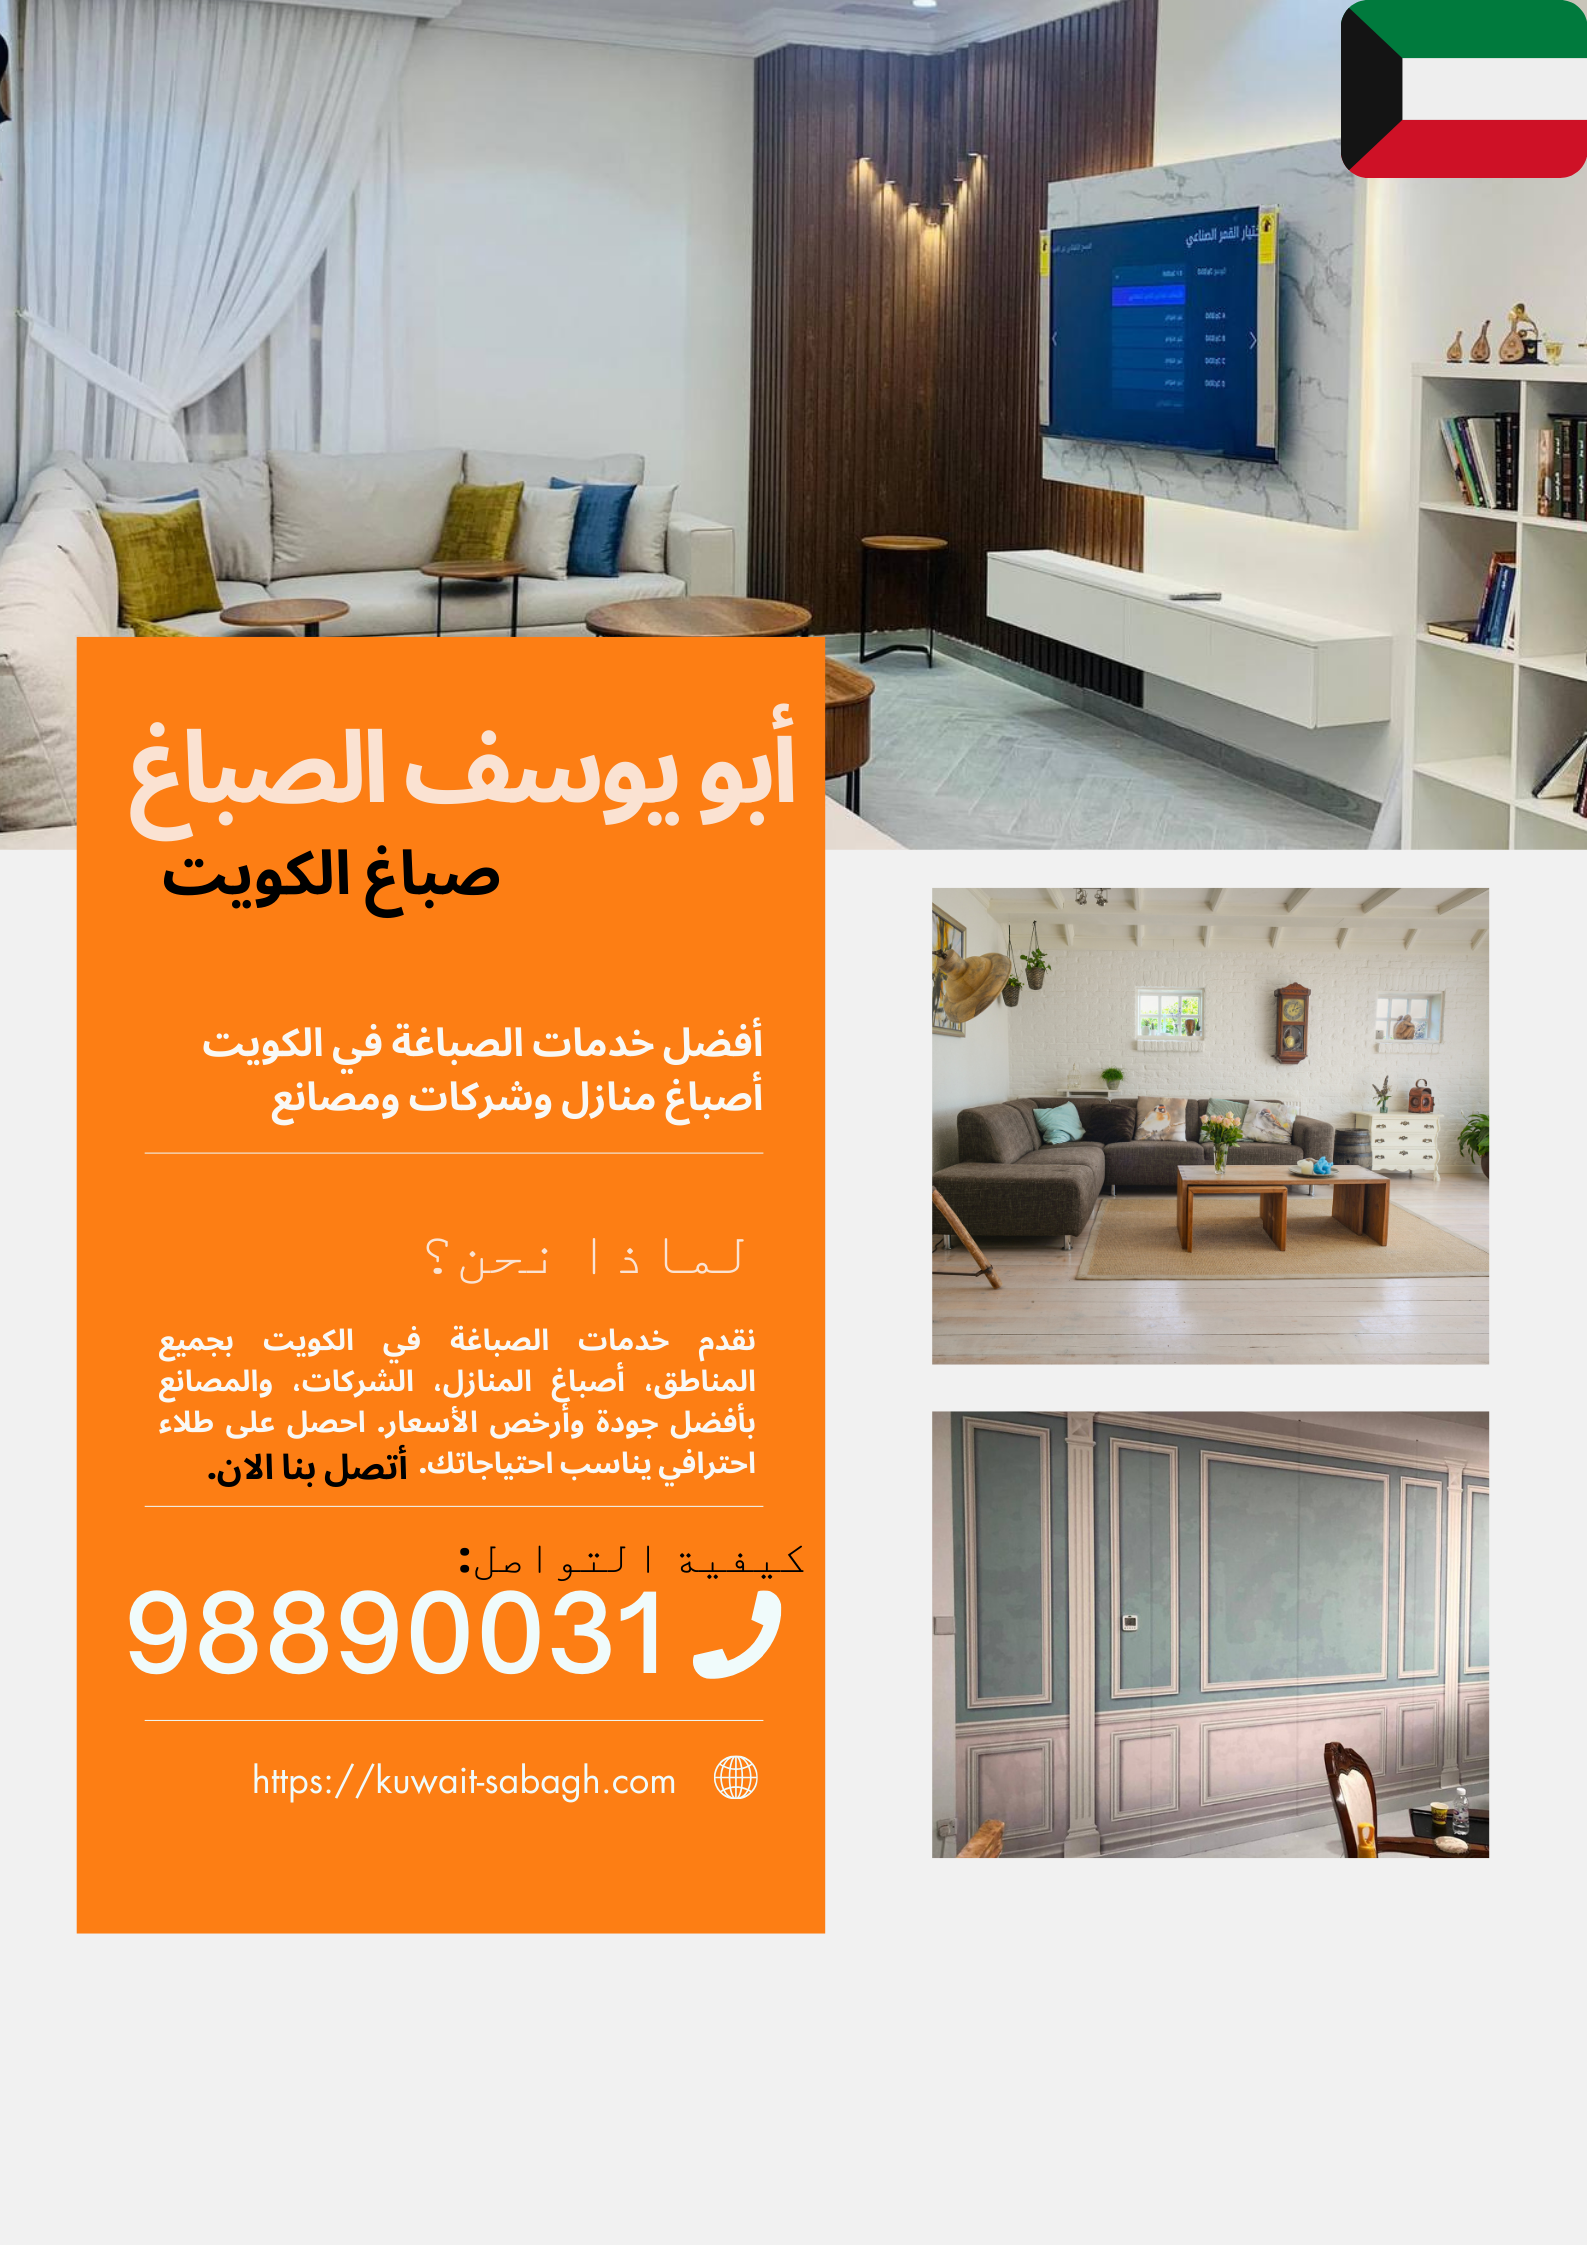
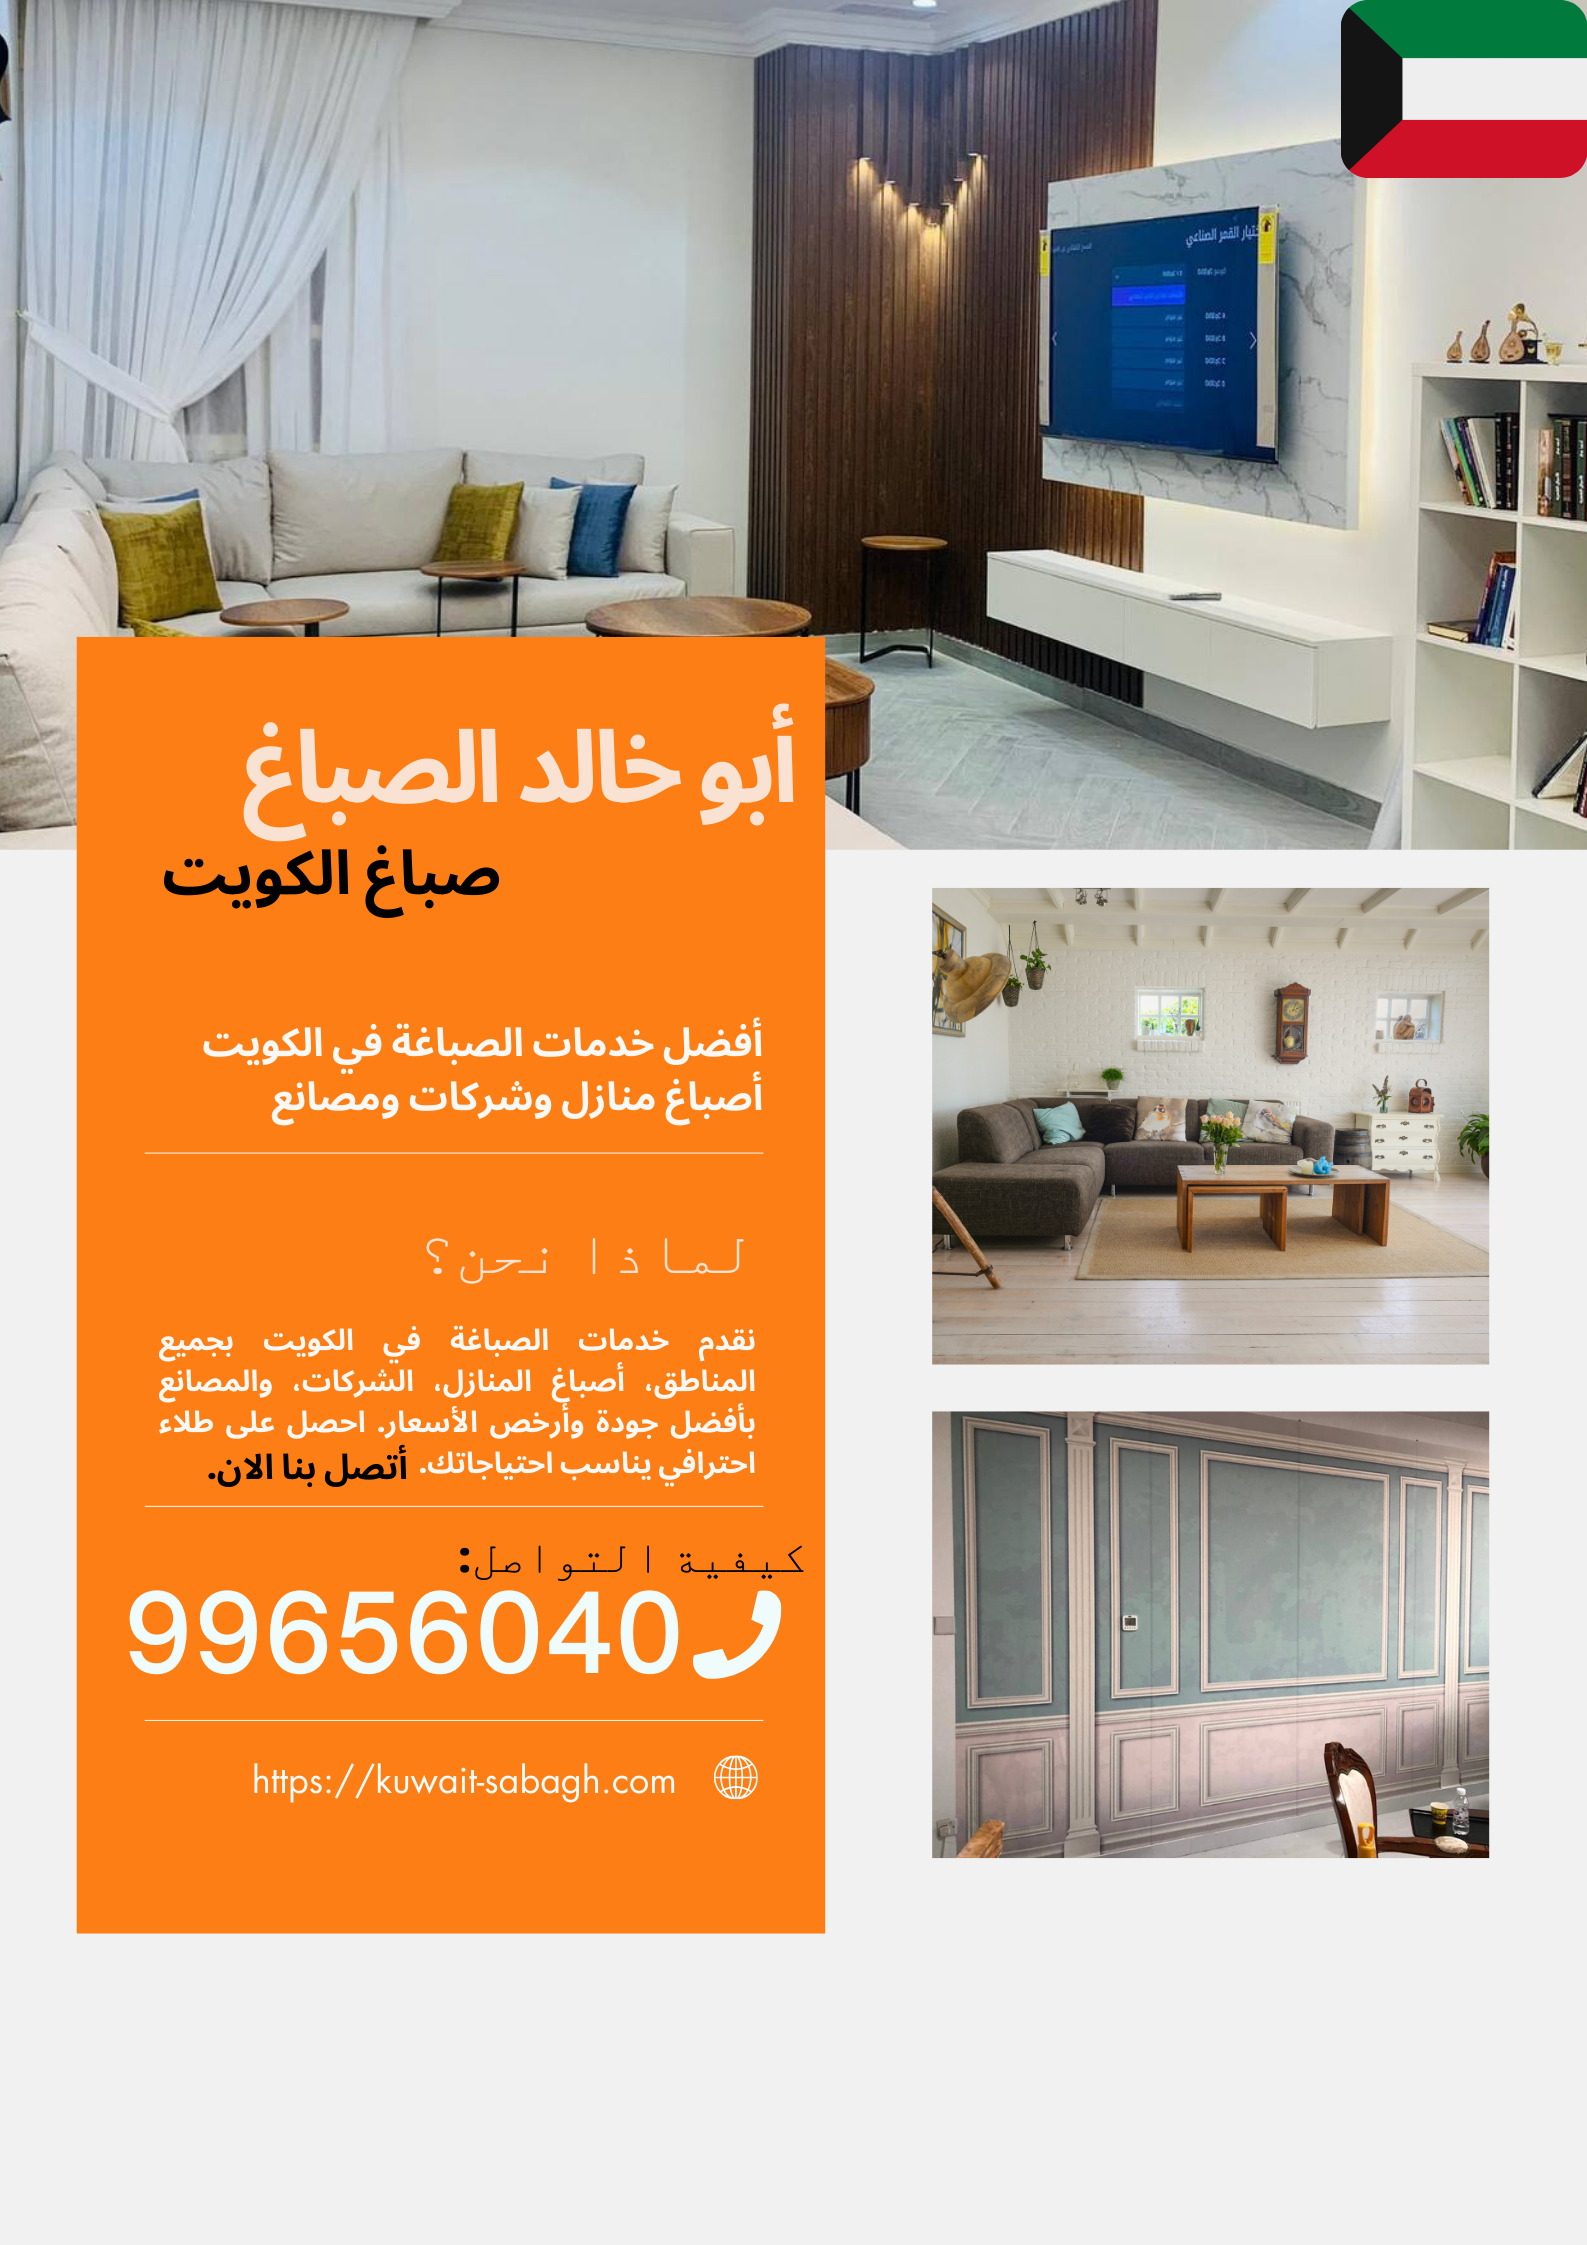
modify site owner

Changed region(s): [[0.0618, 0.3118, 0.4323, 0.3742], [0.1235, 0.686, 0.4323, 0.7483]]

diff --git a/index.html b/index.html
@@ -6,8 +6,7 @@
   <meta name="viewport" content="width=device-width, initial-scale=1.0">
   <meta http-equiv="X-UA-Compatible" content="IE=edge">
 
-  <title>صباغ الكويت خصم 50% - صبغ بدون ريحه جوتن - اتصل الآن 98890031 - صباغ شاطر - صباغ الكويت - رقم صباغ - صباغ ورق
-    جدران - أشطر صباغ بالكويت - أحسن صباغ بالكويت - صباغ ماهر - ابو يوسف الصباغ</title>
+  <title>صباغ الكويت خصم 50% - صبغ بدون ريحه جوتن - اتصل الآن 99656040 - صباغ شاطر - صباغ الكويت - رقم صباغ - صباغ ورق جدران - أشطر صباغ بالكويت - أحسن صباغ بالكويت - صباغ ماهر - ابو خالد الصباغ</title>
 
   <meta name="description"
     content="نقدم خدمات الصباغة في الكويت بجميع المناطق، أصباغ المنازل، الشركات، والمصانع بأفضل جودة وأرخص الأسعار. احصل على طلاء احترافي يناسب احتياجاتك.">
@@ -94,7 +93,7 @@
                   "name": "كيف يمكنني التواصل معكم؟",
                   "acceptedAnswer": {
                       "@type": "Answer",
-                      "text": "يمكنكم الاتصال بنا عبر الهاتف على الرقم +96598890031."
+                      "text": "يمكنكم الاتصال بنا عبر الهاتف على الرقم +96599656040."
                   }
               },
               {
@@ -194,11 +193,11 @@
 
 <body>
   <!-- Floating Button -->
-  <a href="https://wa.me/+96598890031" class="floating-button" title="Chat with me on WhatsApp" target="_blank">
+  <a href="https://wa.me/+96599656040" class="floating-button" title="Chat with me on WhatsApp" target="_blank">
     <i class="fa-brands fa-whatsapp"></i>
   </a>
   <!-- Floating Button -->
-  <a href="tel:98890031" class="floating-button second" title="Call Us Now" target="_blank">
+  <a href="tel:99656040" class="floating-button second" title="Call Us Now" target="_blank">
     <i class="fa-solid fa-phone"></i>
   </a>
 
@@ -231,7 +230,7 @@
     </div>
     <div class="container py-2">
       <a class="navbar-brand fs-4 fw-bold text-uppercase" href="#home">
-        صباغ ابو يوسف
+        صباغ ابو خالد
       </a>
 
       <div class="d-flex align-items-center gap-2">
@@ -276,8 +275,8 @@
     <div class="content pt-5">
       <!-- Main Heading -->
       <h1 id="main" class="mt-5 display-4 text-center fw-bolder">
-        صباغ الكويت خصم 50% - صبغ بدون ريحه جوتن - اتصل الآن 98890031 - صباغ شاطر - صباغ الكويت - رقم صباغ - صباغ ورق
-        جدران - أشطر صباغ بالكويت - أحسن صباغ بالكويت - أفضل صباغ بالكويت - صباغ ماهر - صباغ ابو يوسف
+        صباغ الكويت خصم 50% - صبغ بدون ريحه جوتن - اتصل الآن 99656040 - صباغ شاطر - صباغ الكويت - رقم صباغ - صباغ ورق
+        جدران - أشطر صباغ بالكويت - أحسن صباغ بالكويت - أفضل صباغ بالكويت - صباغ ماهر - صباغ ابو خالد
       </h1>
 
       <!-- Dynamic Text with SEO Optimization -->
@@ -296,14 +295,14 @@
       <!-- Connection Buttons -->
       <div class="d-flex gap-2 justify-content-center">
         <!-- Phone Call Button -->
-        <a href="tel:98890031" class="btn btn-main d-flex align-items-center p-2 mt-2" title="اتصل بصباغ محترف"
+        <a href="tel:99656040" class="btn btn-main d-flex align-items-center p-2 mt-2" title="اتصل بصباغ محترف"
           aria-label="اتصل بصباغ محترف">
           اتصل الآن
           <i class="fa-solid fa-phone me-2" aria-hidden="true"></i>
         </a>
 
         <!-- WhatsApp Button -->
-        <a href="https://wa.me/+96598890031" class="btn btn-outline-main d-flex align-items-center p-2 mt-2"
+        <a href="https://wa.me/+96599656040" class="btn btn-outline-main d-flex align-items-center p-2 mt-2"
           title="تواصل عبر واتساب" aria-label="تواصل عبر واتساب">
           واتساب
           <i class="fa-brands fa-whatsapp me-2" aria-hidden="true"></i>
@@ -428,7 +427,7 @@
                 </tr>
                 <tr>
                   <td><strong>رقم الهاتف</strong></td>
-                  <td><a href="tel:98890031" class="text-main fw-bold">98890031</a></td>
+                  <td><a href="tel:99656040" class="text-main fw-bold">99656040</a></td>
                 </tr>
                 <tr>
                   <td><strong>البريد الإلكتروني</strong></td>
@@ -499,7 +498,7 @@
           </section>
 
           <section class="mb-4" id="portfolio">
-            <h2 class="text-main">أبو يوسف الصباغ - صباغ ورق جدران 98890031</h2>
+            <h2 class="text-main">أبو خالد الصباغ - صباغ ورق جدران 99656040</h2>
             <div class="row">
               <div class="col-md-4 text-center">
                 <img src="https://kuwait-sabagh.com/img/poster-kw-1.png" class="img-fluid rounded"
@@ -519,8 +518,8 @@
           <section class="text-center mt-4">
             <h2 class="text-secondary">تواصل معنا الآن!</h2>
             <p>اتصل بنا الآن لحجز موعد أو الاستفسار عن خدماتنا.</p>
-            <a href="tel:+96598890031" class="btn btn-success me-2"><i class="fa fa-phone"></i> اتصال الآن</a>
-            <a href="https://wa.me/+96598890031" class="btn btn-primary"><i class="fa-brands fa-whatsapp"></i> تواصل عبر
+            <a href="tel:+96599656040" class="btn btn-success me-2"><i class="fa fa-phone"></i> اتصال الآن</a>
+            <a href="https://wa.me/+96599656040" class="btn btn-primary"><i class="fa-brands fa-whatsapp"></i> تواصل عبر
               واتساب</a>
           </section>
         </article>
@@ -597,8 +596,8 @@
           <section class="text-center mt-4">
             <h2 class="text-secondary">اتصل بنا الآن!</h2>
             <p>للاستفسار عن خدماتنا أو لحجز موعد، لا تتردد في التواصل معنا.</p>
-            <a href="tel:+96598890031" class="btn btn-success me-2"><i class="fa fa-phone"></i> اتصال الآن</a>
-            <a href="https://wa.me/+96598890031" class="btn btn-primary"><i class="fa-brands fa-whatsapp"></i> تواصل عبر
+            <a href="tel:+96599656040" class="btn btn-success me-2"><i class="fa fa-phone"></i> اتصال الآن</a>
+            <a href="https://wa.me/+96599656040" class="btn btn-primary"><i class="fa-brands fa-whatsapp"></i> تواصل عبر
               واتساب</a>
           </section>
         </article>
@@ -628,8 +627,8 @@
           <section class="text-center mt-4">
             <h2 class="text-secondary">اتصل بنا الآن!</h2>
             <p>للاستفسار عن خدماتنا أو لحجز موعد، لا تتردد في التواصل معنا.</p>
-            <a href="tel:+96598890031" class="btn btn-success me-2"><i class="fa fa-phone"></i> اتصال الآن</a>
-            <a href="https://wa.me/+96598890031" class="btn btn-primary"><i class="fa-brands fa-whatsapp"></i> تواصل عبر
+            <a href="tel:+96599656040" class="btn btn-success me-2"><i class="fa fa-phone"></i> اتصال الآن</a>
+            <a href="https://wa.me/+96599656040" class="btn btn-primary"><i class="fa-brands fa-whatsapp"></i> تواصل عبر
               واتساب</a>
           </section>
         </article>
@@ -670,23 +669,23 @@
             </div>
 
             <div class="contact bg-white rounded-3 px-4 py-4">
-              <a href="https://wa.me/+96598890031" class="icon-container rounded-circle flex-center mx-auto"
+              <a href="https://wa.me/+96599656040" class="icon-container rounded-circle flex-center mx-auto"
                 title="Chat with me on WhatsApp" target="_blank">
                 <i class="fa-brands fa-whatsapp"></i>
               </a>
               <h6 class="fw-bold my-3">عبر الواتساب</h6>
-              <a href="https://wa.me/+96598890031" class="text-dark" title="Chat with me on WhatsApp" target="_blank">
-                98890031
+              <a href="https://wa.me/+96599656040" class="text-dark" title="Chat with me on WhatsApp" target="_blank">
+                99656040
               </a>
             </div>
 
             <div class="contact bg-white rounded-3 px-4 py-4">
-              <a href="tel:98890031" class="icon-container rounded-circle flex-center mx-auto">
+              <a href="tel:99656040" class="icon-container rounded-circle flex-center mx-auto">
                 <i class="fa fa-phone"></i>
               </a>
               <h6 class="fw-bold my-3 translate-en d-none">Call Us</h6>
               <h6 class="fw-bold my-3 translate-ar">تواصل معنا</h6>
-              <a href="tel:98890031" class="text-muted">+98890031</a>
+              <a href="tel:99656040" class="text-muted">+99656040</a>
             </div>
           </div>
         </div>
@@ -807,8 +806,8 @@
             <h2 class="text-secondary"><i class="fas fa-phone-alt"></i> تواصل معنا لخدمات الدهان الاحترافية</h2>
             <p>احصل على أفضل خدمات الدهان والديكور بأعلى جودة:</p>
             <ul class="list-group list-group-flush">
-              <li class="list-group-item"><i class="fas fa-phone text-primary"></i> 📞 <a href="tel:98890031"
-                  class="text-primary fw-bold">اتصل بنا: 98890031</a></li>
+              <li class="list-group-item"><i class="fas fa-phone text-primary"></i> 📞 <a href="tel:99656040"
+                  class="text-primary fw-bold">اتصل بنا: 99656040</a></li>
               <li class="list-group-item"><i class="fas fa-envelope text-secondary"></i> 📧 <a
                   href="mailto:info@kuwait-sb.com" class="text-secondary">info@kuwait-sb.com</a></li>
               <li class="list-group-item"><i class="fas fa-shield-alt text-danger"></i> 🏠 خدمات مضمونة بأفضل الأسعار!
@@ -838,7 +837,7 @@
         <div class="col-md-4 mb-3">
           <a href="https://kuwait-sabagh.com/" class="text-decoration-none text-dark" target="_blank">
             <div class="p-3 border rounded shadow-sm bg-white">
-              <h4>ابو يوسف الصباغ</h4>
+              <h4>ابو خالد الصباغ</h4>
               <p>خدمات صباغة متميزة بأفضل الأسعار</p>
             </div>
           </a>
@@ -965,7 +964,7 @@
 
   <!-- Start Footer -->
   <footer class="pt-5 flex-center flex-column bg-main">
-    <h2 class="text-light">أبو يوسف الصباغ</h2>
+    <h2 class="text-light">أبو خالد الصباغ</h2>
 
     <div class="mb-0 mt-4 border-top border-light py-3 text-center">
       <span> Copy Right 2025 &copy; All Rights Reserved</span>
